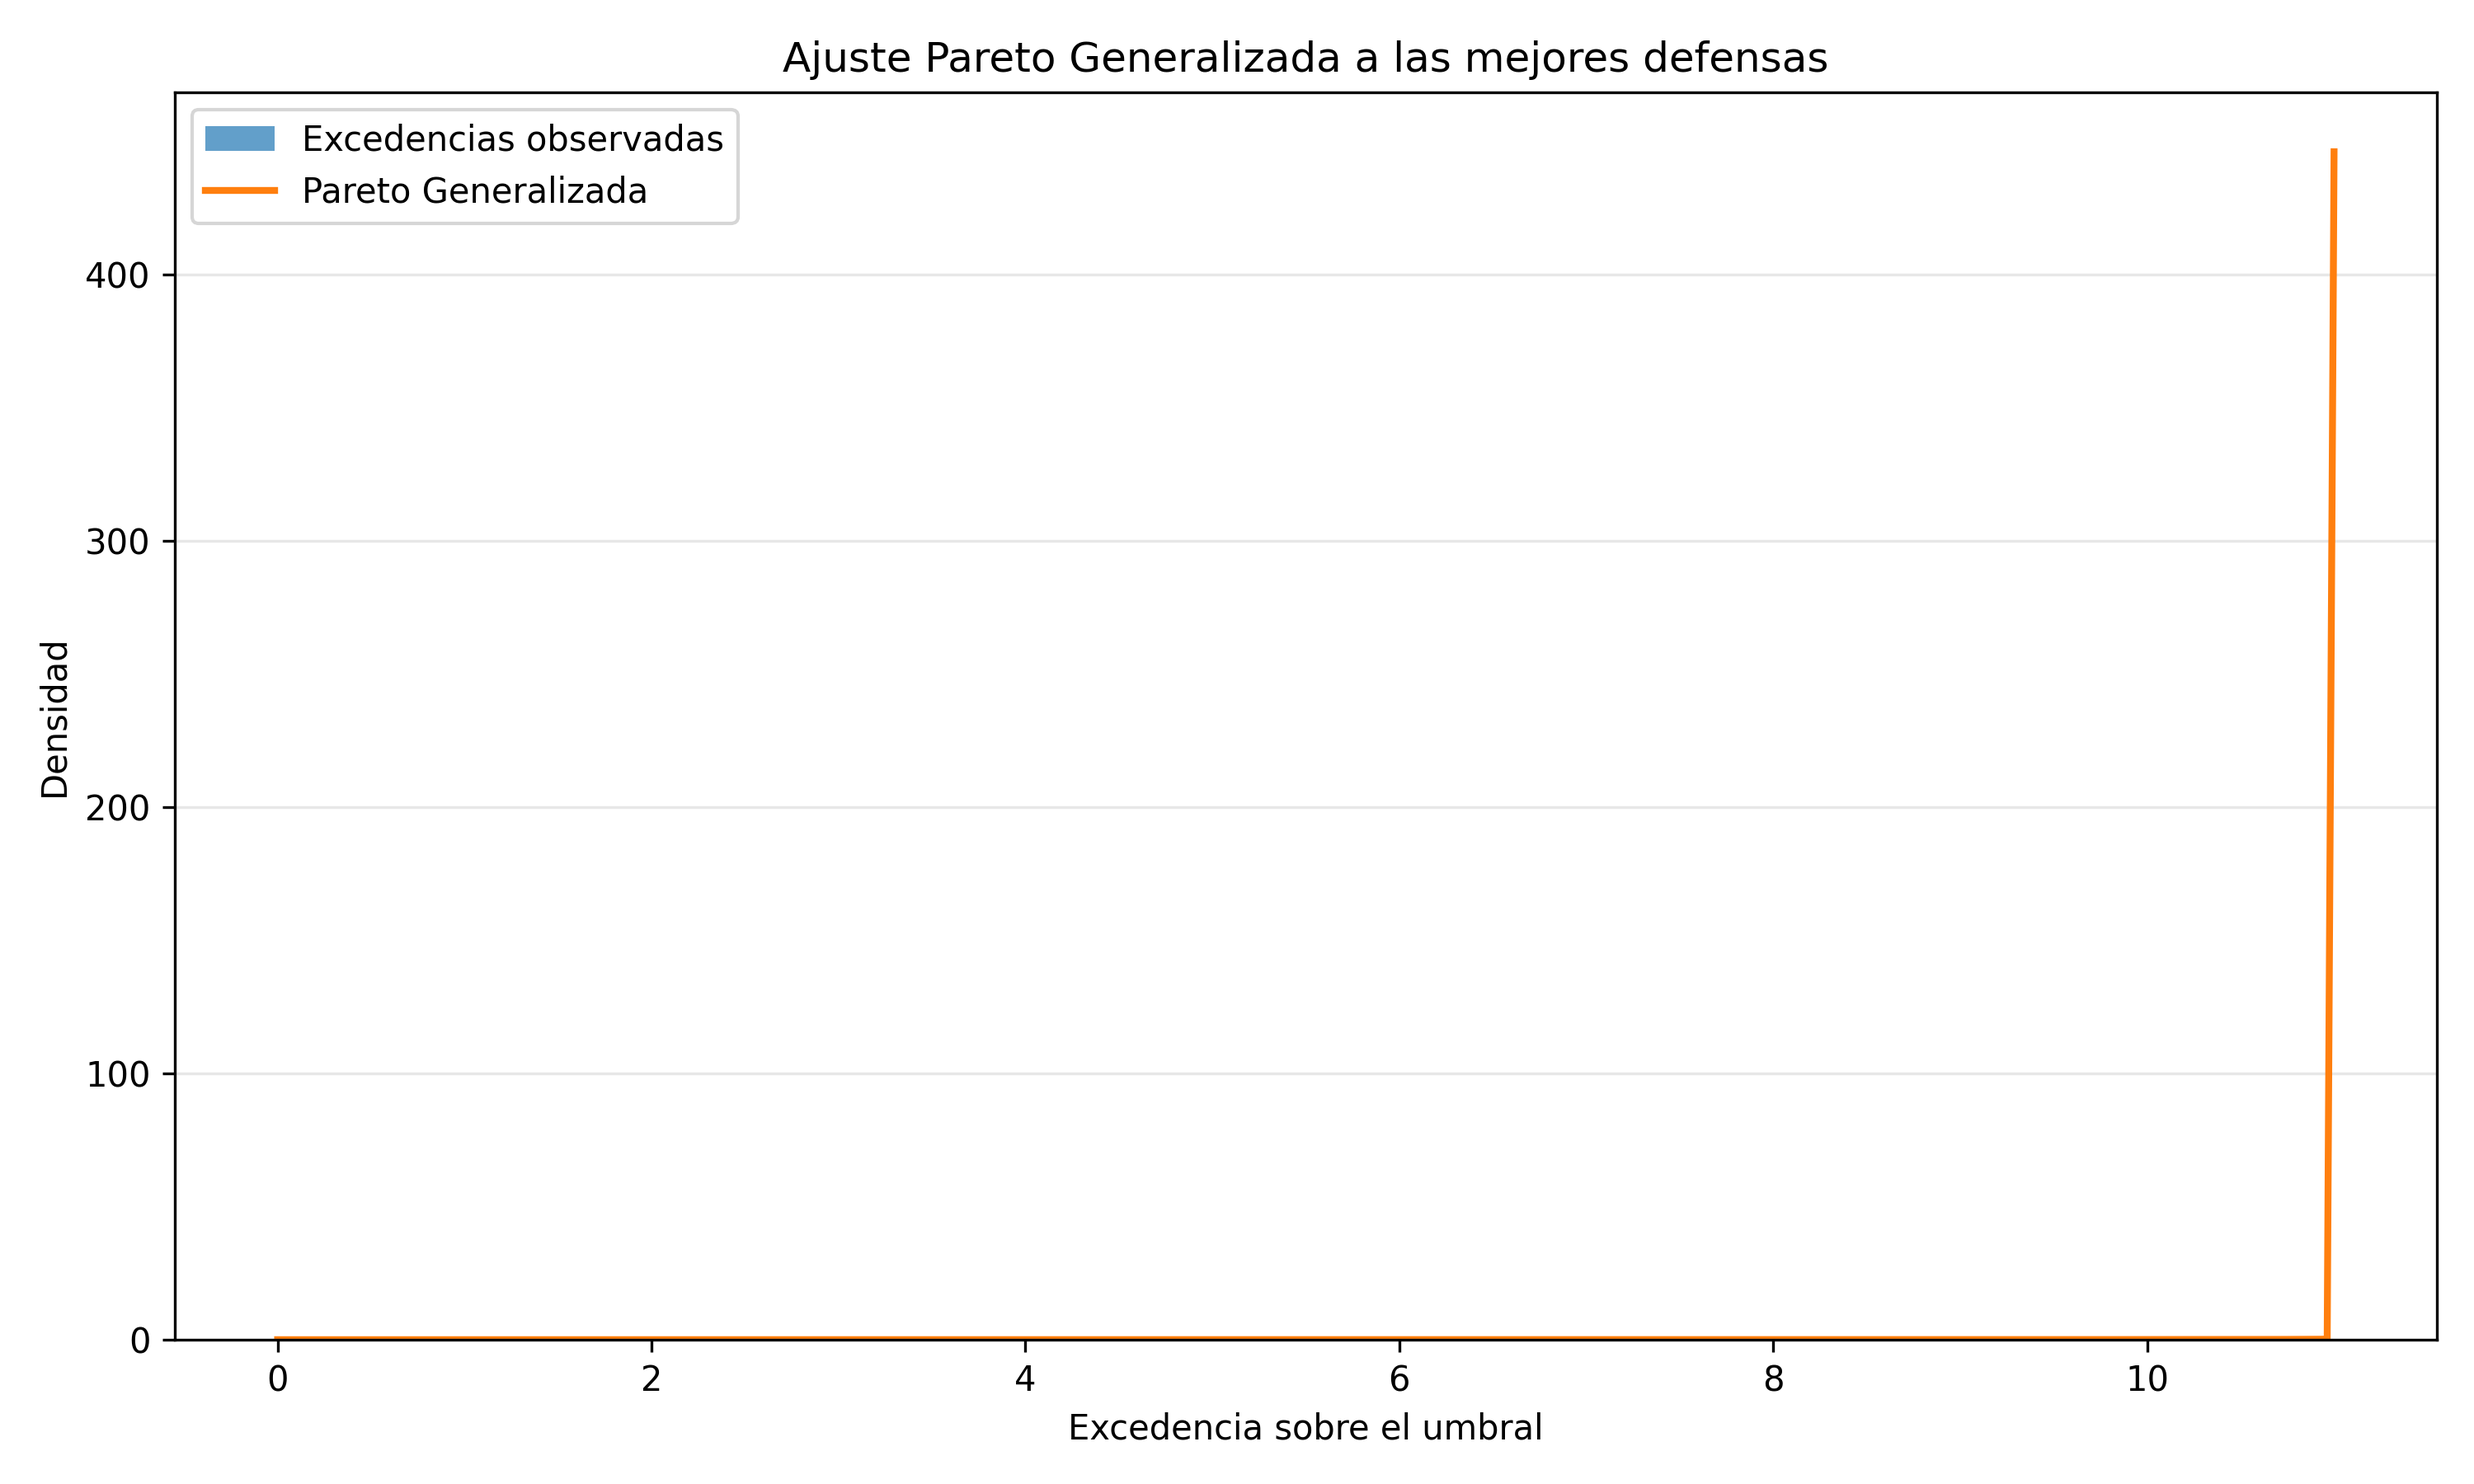
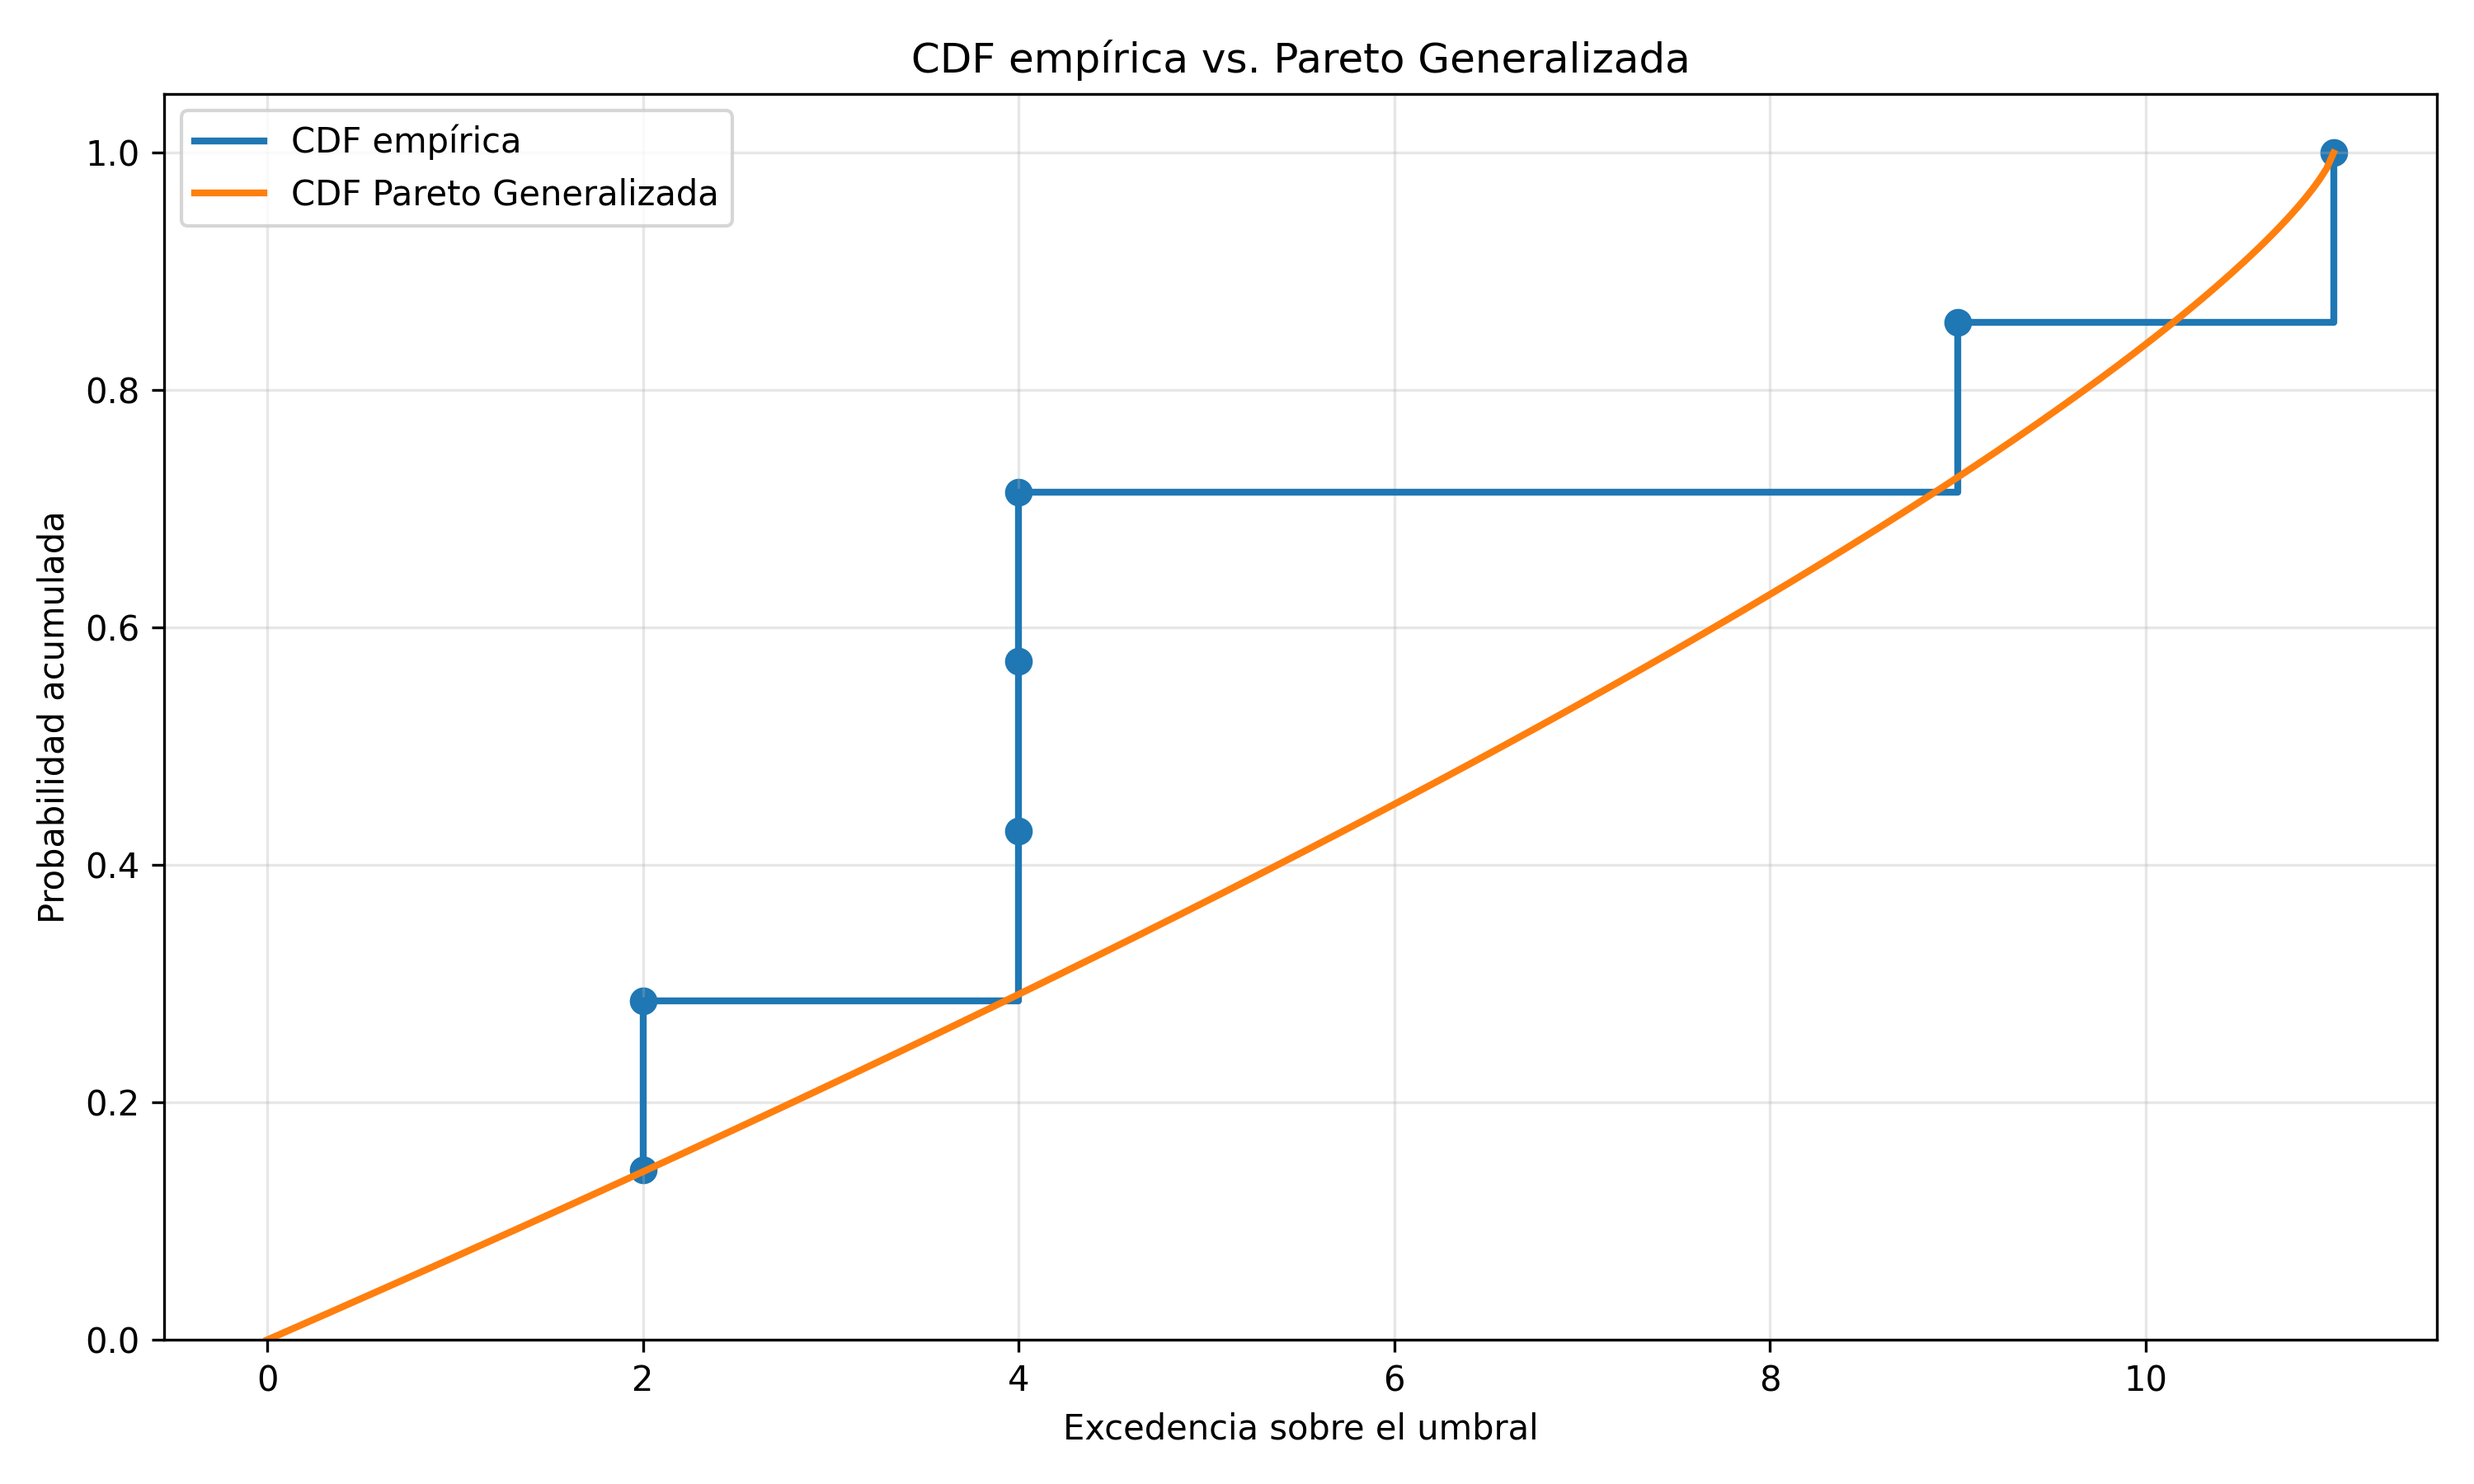
arreglo pareto

diff --git a/2.2.Chelsea/pareto_generalizada.py b/2.2.Chelsea/pareto_generalizada.py
@@ -218,48 +218,69 @@ comparacion.to_csv(
 print("\nComparación guardada en:")
 print(archivo_comparacion)
 
+# 10. GRÁFICA DEL AJUSTE GPD MEDIANTE CDF
 
-# 10. GRÁFICA DEL AJUSTE GPD
+# Ordenar las excedencias observadas
+excedencias_ordenadas = np.sort(excedencias)
 
+# CDF empírica
+n = len(excedencias_ordenadas)
+
+cdf_empirica = np.arange(
+    1,
+    n + 1
+) / n
+
+# Valores para representar la CDF teórica
 x = np.linspace(
     0,
-    excedencias.max(),
+    excedencias_ordenadas.max(),
     300
 )
 
-pdf = genpareto.pdf(
+# CDF de la Pareto Generalizada ajustada
+cdf_gpd = genpareto.cdf(
     x,
     xi_gpd,
     loc=0,
     scale=scale_gpd
 )
 
-
 plt.figure(figsize=(10, 6))
 
-plt.hist(
-    excedencias,
-    bins=max(4, len(excedencias)),
-    density=True,
-    alpha=0.7,
-    label="Excedencias observadas"
+# Datos observados
+plt.step(
+    excedencias_ordenadas,
+    cdf_empirica,
+    where="post",
+    linewidth=2,
+    label="CDF empírica"
 )
 
+plt.scatter(
+    excedencias_ordenadas,
+    cdf_empirica,
+    s=50
+)
+
+# Modelo GPD
 plt.plot(
     x,
-    pdf,
+    cdf_gpd,
     linewidth=2,
-    label="Pareto Generalizada"
+    label="CDF Pareto Generalizada"
 )
 
 plt.xlabel("Excedencia sobre el umbral")
-plt.ylabel("Densidad")
+plt.ylabel("Probabilidad acumulada")
 plt.title(
-    "Ajuste Pareto Generalizada a las mejores defensas"
+    "CDF empírica vs. Pareto Generalizada"
 )
 
+plt.ylim(0, 1.05)
+
 plt.legend()
-plt.grid(axis="y", alpha=0.3)
+plt.grid(alpha=0.3)
 plt.tight_layout()
 
 grafica_gpd = (
@@ -275,7 +296,6 @@ plt.close()
 
 print("\nGráfica GPD guardada en:")
 print(grafica_gpd)
-
 
 # 11. GRÁFICA DE SENSIBILIDAD DE XI
 
